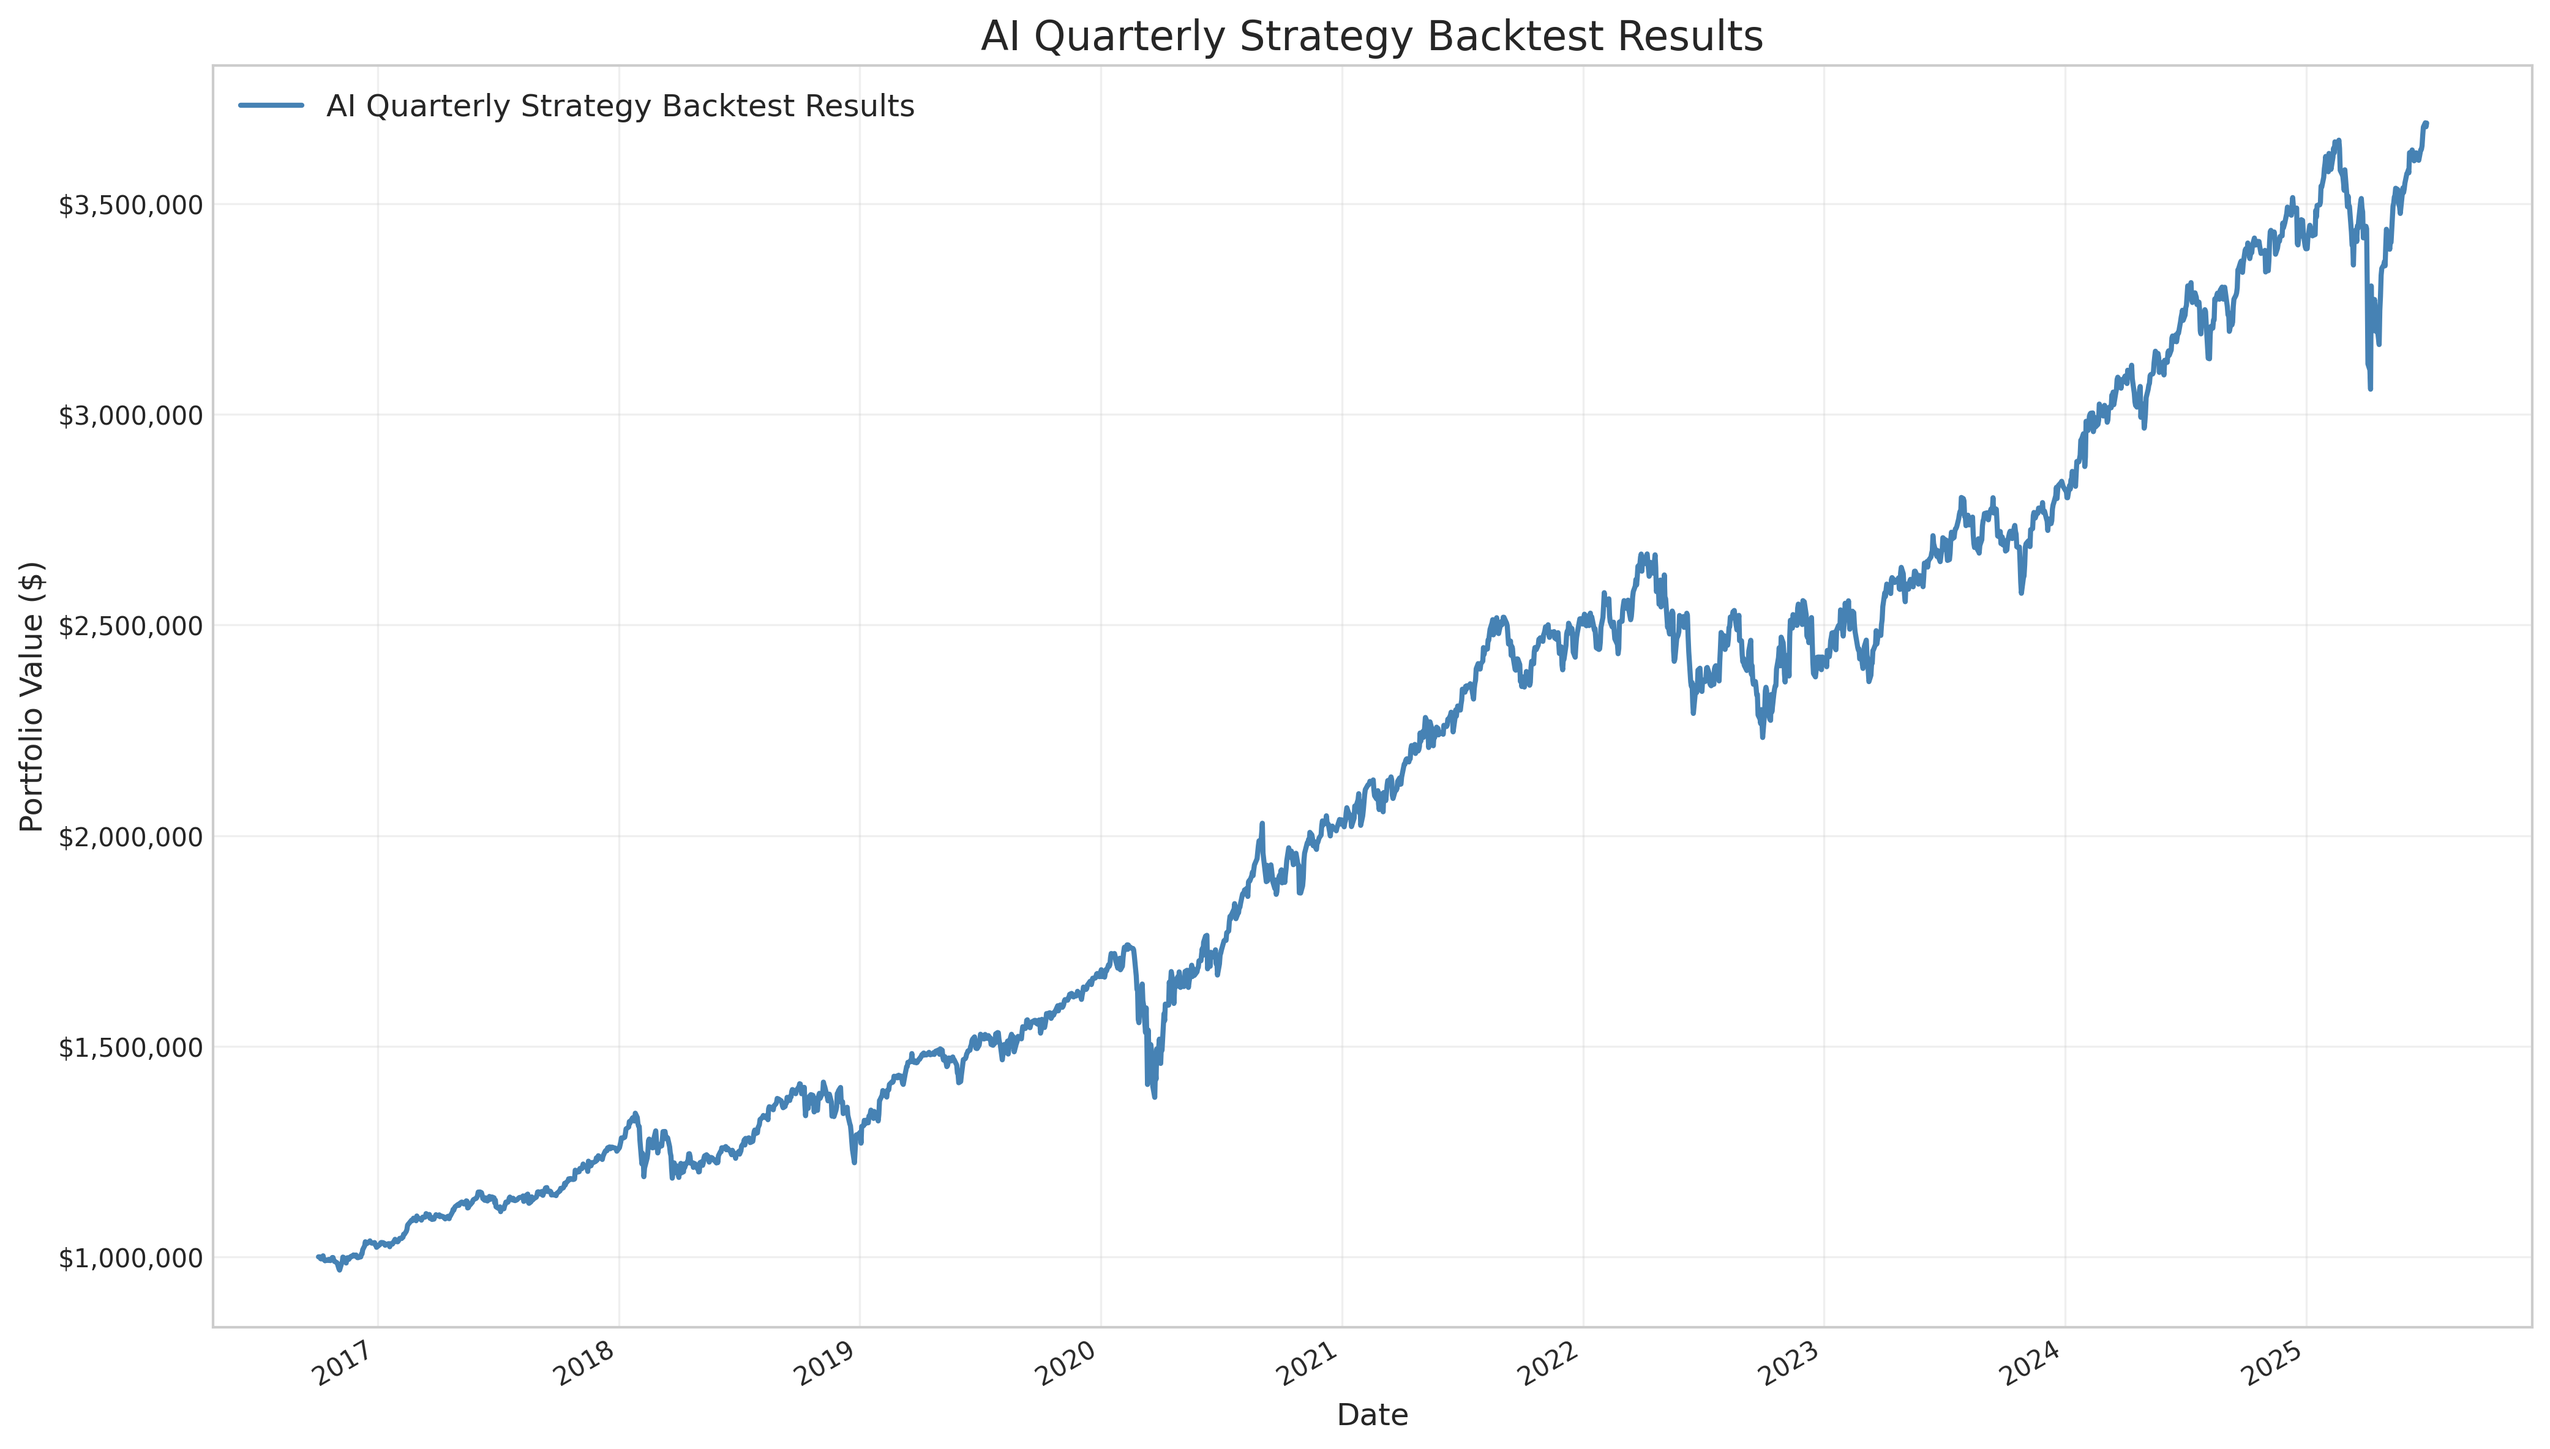
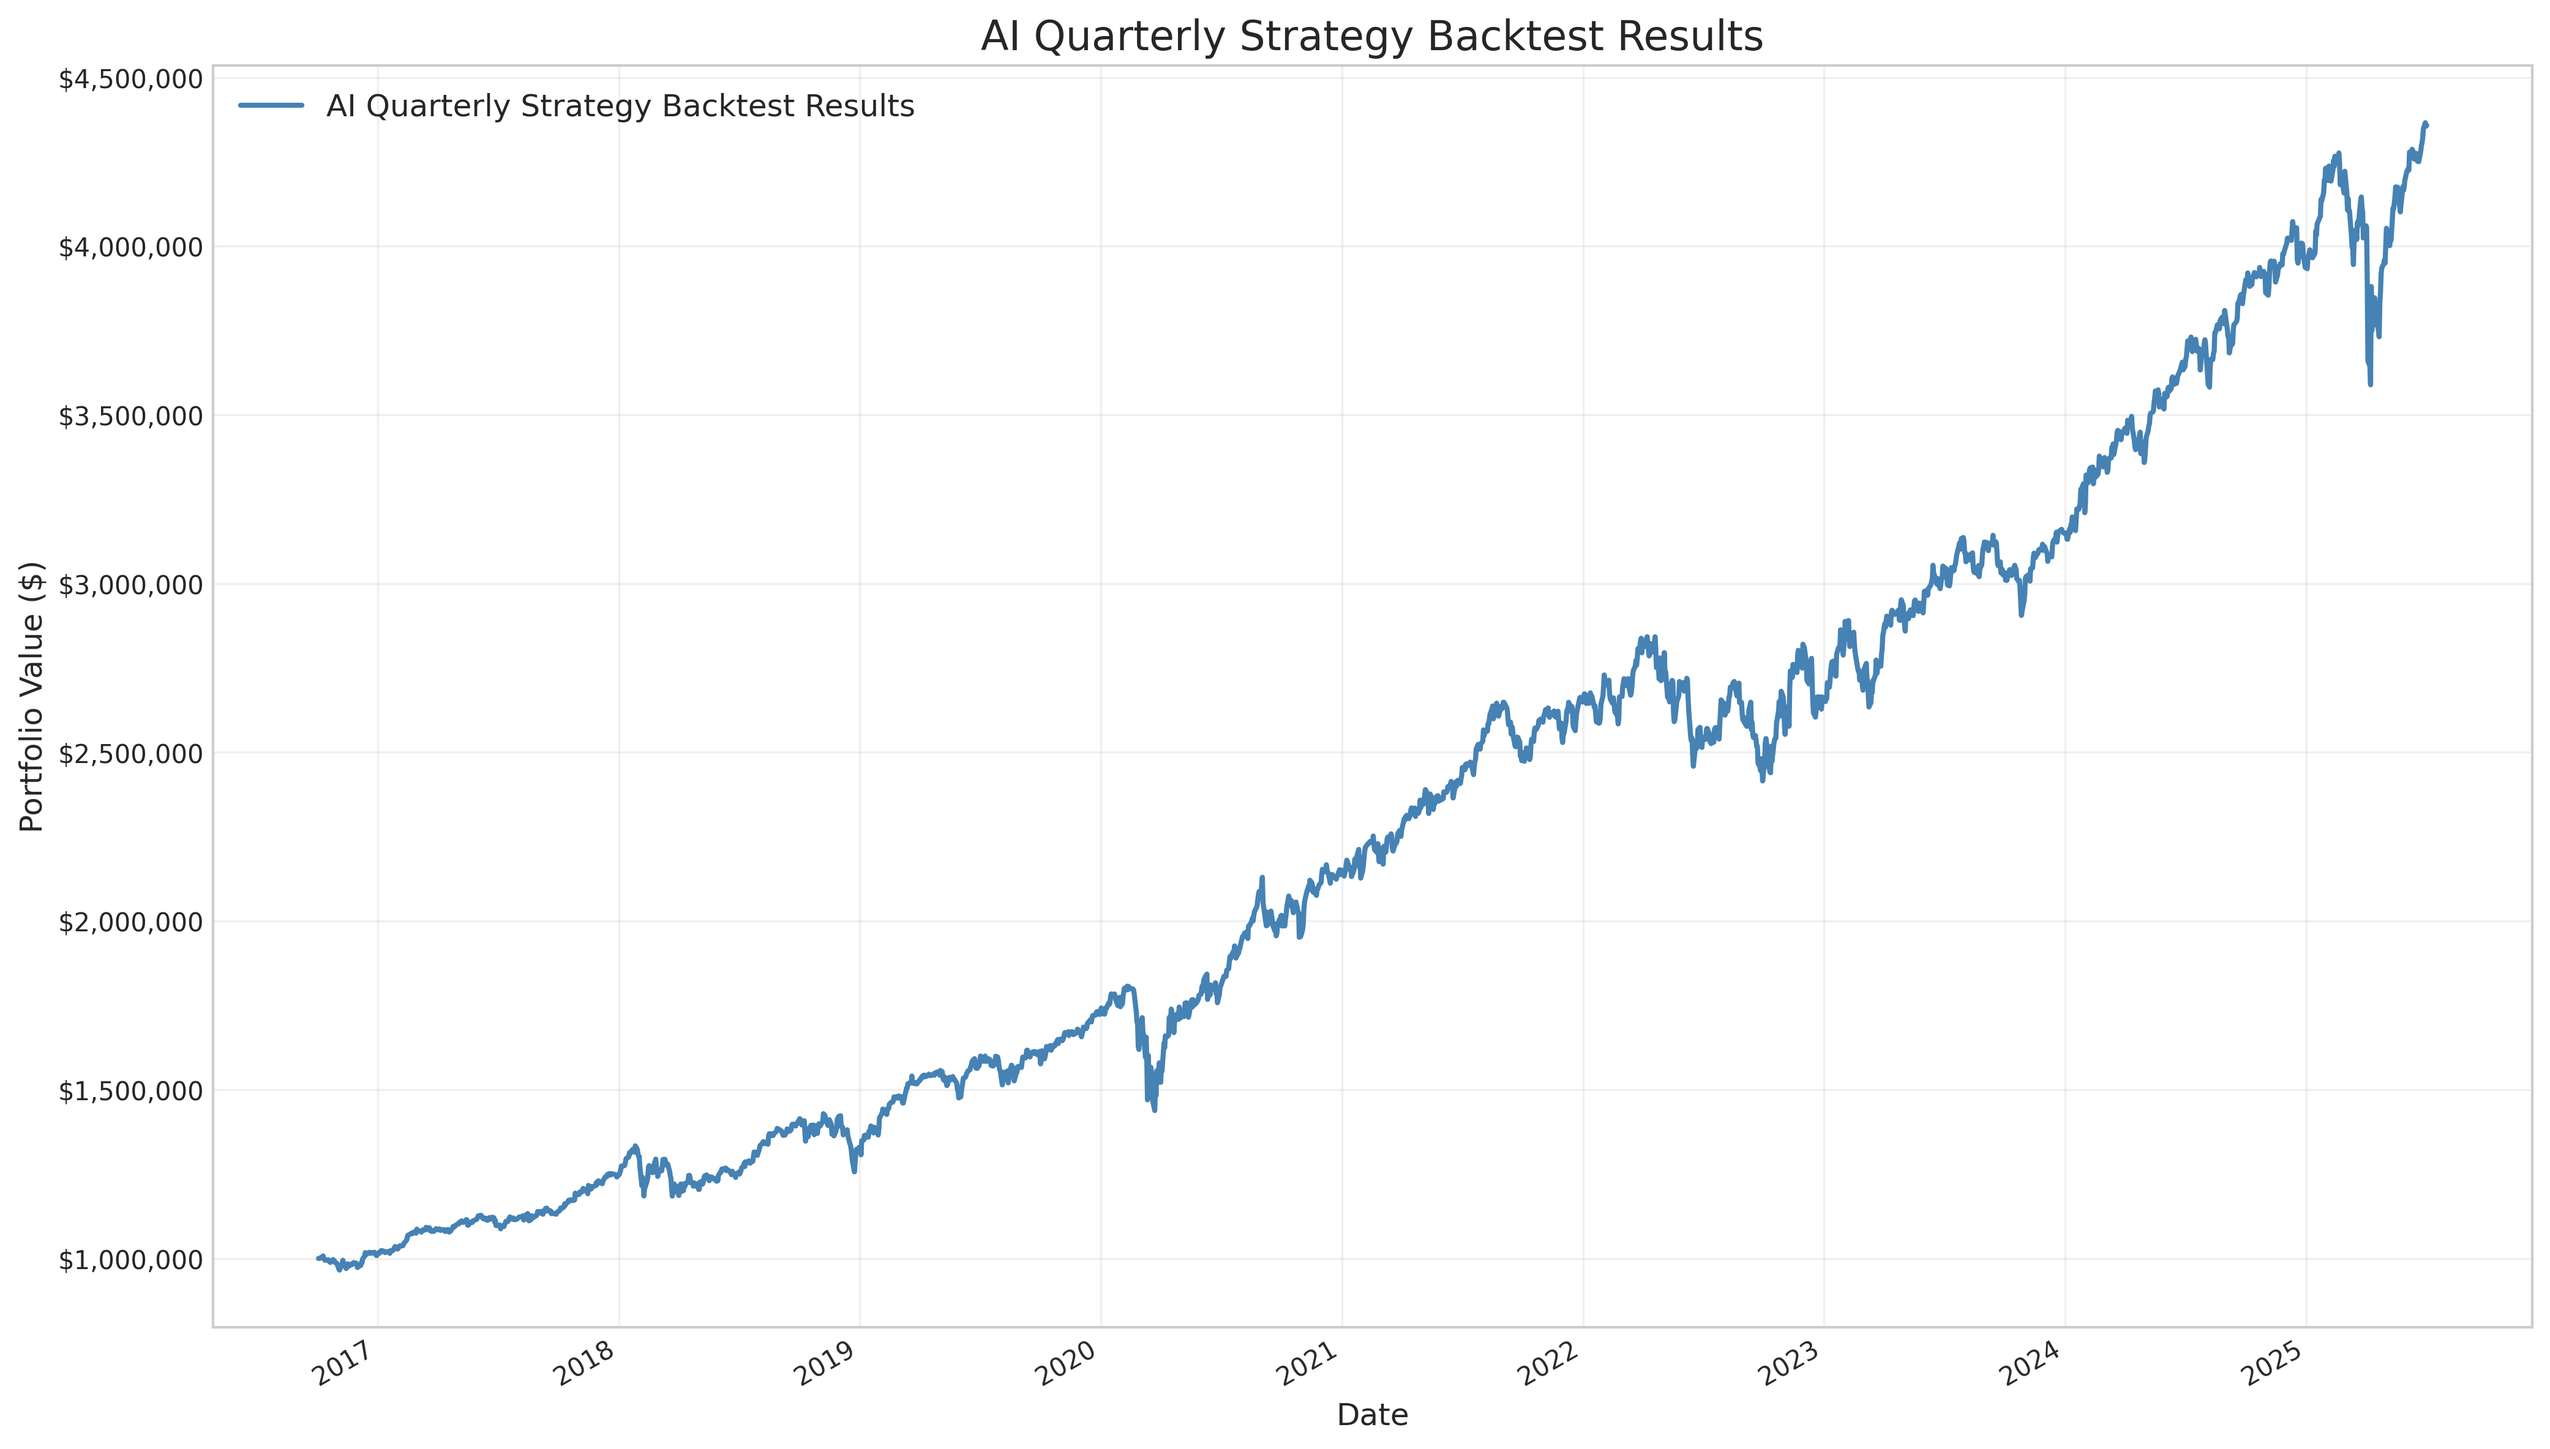
rerun ai strategy to include dividend reinvesting

diff --git a/README.md b/README.md
@@ -16,11 +16,11 @@
 ==================================================
 Time Period Covered:     2016-10-04 to 2025-08-31
 Initial Portfolio Value: $1,000,000.00
-Final Portfolio Value:   $3,691,312.40
+Final Portfolio Value:   $4,358,054.98
 --------------------------------------------------
-Total Return:            130.60%
-Annualized Return:       9.84%
-Max Drawdown:            20.79%
+Total Return:            147.20%
+Annualized Return:       10.70%
+Max Drawdown:            20.39%
 ==================================================
 
 ==================================================
